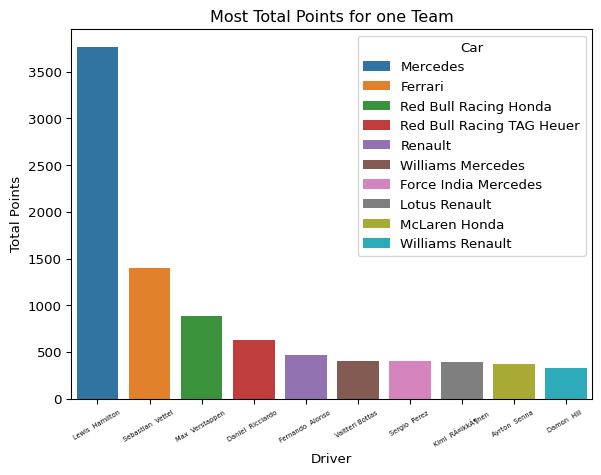
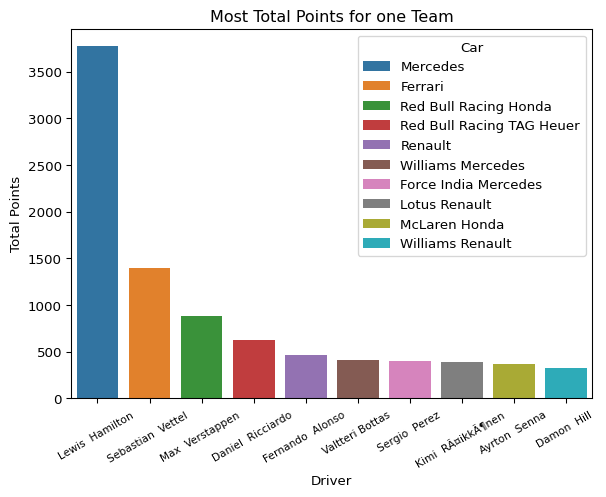
Updating README

Changed region(s): [[0.0, 0.0, 0.9884, 0.9432], [0.5092, 0.9432, 0.599, 1.0]]

diff --git a/README.md b/README.md
@@ -3,11 +3,23 @@
 
 ## Purpose
 
-The data that I chose for this project is F1 data about drivers,
-winners, teams, and fastest laps for each season of the F1 season. This
-data starts in 1950 and goes to about half way through the 2024 season.
-The main reason why I undertook this project is that I was interesting
-in exploring
+The data I chose for this project is the F1 data on drivers, winners,
+teams, and fastest laps for each season. This data starts in 1950 and
+goes to about halfway through the 2024 season. The main reason I
+undertook this project is that I was interested in exploring how F1 has
+changed over the years, given that the cars and the racetracks
+themselves can differ from year to year. I also chose F1 in particular
+because, given the sport’s high popularity, I could easily validate my
+findings by manually researching them. For example, if I found that a
+particular driver won x races, I can easily verify that by Googling it.
+This exploration is important because it can reveal various trends that
+may not be readily apparent through a Google search. For example, the
+evolution of the fastest lap at a particular track. While this can be
+Googled, it’s much more impactful to explore it here and have a visual
+for it.
+
+Data for this project is linked
+here(https://www.kaggle.com/datasets/lakshayjain611/f1-races-results-dataset-1950-to-2024?select=winners.csv)
 
 ``` python
 import pandas as pd
@@ -31,7 +43,18 @@ teams.head()
 winners.head()
 ```
 
-
+<div>
+<style scoped>
+    .dataframe tbody tr th:only-of-type {
+        vertical-align: middle;
+    }
+&#10;    .dataframe tbody tr th {
+        vertical-align: top;
+    }
+&#10;    .dataframe thead th {
+        text-align: right;
+    }
+</style>
 
 |  | Grand Prix | Date | Winner | Car | Laps | Time | Name Code |
 |----|----|----|----|----|----|----|----|
@@ -41,6 +64,7 @@ winners.head()
 | 3 | Switzerland | 1950-06-04 | Nino Farina | Alfa Romeo | 42.0 | 2:02:53.700 | FAR |
 | 4 | Belgium | 1950-06-18 | Juan Manuel Fangio | Alfa Romeo | 35.0 | 2:47:26.000 | FAN |
 
+</div>
 
 ## Question 1: How was the total number of F1 Races changed over time?
 
@@ -102,63 +126,20 @@ added things such as chicanes to more circuits, which led to decreased
 track speed, which in turn led to increased track times.
 
 ``` python
-fastest_laps['Grand Prix'].value_counts()
+fastest_laps['Grand Prix'].value_counts().head(10)
 ```
 
     Grand Prix
-    Great Britain       74
-    Italy               74
-    Monaco              70
-    Belgium             67
-    Germany             64
-    France              62
-    Spain               53
-    Canada              52
-    Brazil              50
-    United States       39
-    Hungary             38
-    Australia           38
-    Japan               38
-    Austria             36
-    Netherlands         33
-    San Marino          26
-    Europe              23
-    Mexico              23
-    South Africa        23
-    Bahrain             20
-    Argentina           20
-    Malaysia            19
-    Portugal            18
-    China               17
-    Abu Dhabi           15
-    Singapore           14
-    Indianapolis 500    11
-    Turkey               9
-    USA West             8
-    Russia               8
-    Detroit              7
-    Sweden               6
-    Switzerland          6
-    Azerbaijan           6
-    USA East             5
-    South Korea          4
-    Emilia Romagna       4
-    Saudi Arabia         4
-    India                3
-    Miami                3
-    Styria               2
-    Qatar                2
-    Pacific              2
-    Caesar's Palace      2
-    Luxembourg           2
-    Morocco              1
-    Pescara              1
-    Dallas               1
-    70th Anniversary     1
-    Sakhir               1
-    Eifel                1
-    Tuscany              1
-    Las Vegas            1
+    Great Britain    74
+    Italy            74
+    Monaco           70
+    Belgium          67
+    Germany          64
+    France           62
+    Spain            53
+    Canada           52
+    Brazil           50
+    United States    39
     Name: count, dtype: int64
 
 ``` python
@@ -208,7 +189,18 @@ top_drivers = drivers_grouped.loc[idx].reset_index(drop=True)
 top_drivers
 ```
 
-
+<div>
+<style scoped>
+    .dataframe tbody tr th:only-of-type {
+        vertical-align: middle;
+    }
+&#10;    .dataframe tbody tr th {
+        vertical-align: top;
+    }
+&#10;    .dataframe thead th {
+        text-align: right;
+    }
+</style>
 
 |     | Car                          | Driver             | PTS    |
 |-----|------------------------------|--------------------|--------|
@@ -254,6 +246,7 @@ top_drivers
 | 39  | Williams Mercedes            | Valtteri Bottas    | 407.0  |
 | 40  | Williams Renault             | Damon Hill         | 326.0  |
 
+</div>
 
 ## Question 4: What are the all time point scorers for a single team?
 
@@ -279,7 +272,7 @@ sns.barplot(top_drivers_unique, x = 'Driver',y = 'PTS', hue = 'Car')
 plt.xlabel('Driver')
 plt.ylabel('Total Points')
 plt.title('Most Total Points for one Team')
-plt.xticks(rotation = 30, fontsize = 5)
+plt.xticks(rotation = 30, fontsize = 8)
 plt.show()
 ```
 
@@ -317,7 +310,7 @@ fastest_laps_plot['x'] = range(len(fastest_laps_plot))
 
 ``` python
 sns.barplot(data=fastest_laps_plot,x='x',y='Dummy',hue='year',dodge=False)
-plt.xticks(ticks=fastest_laps_plot['x'],labels=fastest_laps_plot['Driver'],rotation=30,ha='right', fontsize = 5)
+plt.xticks(ticks=fastest_laps_plot['x'],labels=fastest_laps_plot['Driver'],rotation=30,ha='right', fontsize = 8)
 plt.xlabel('Driver')
 plt.ylabel('Total Fastest Laps in a Season')
 plt.title('Drivers with Most Fastest Laps in a Season')
